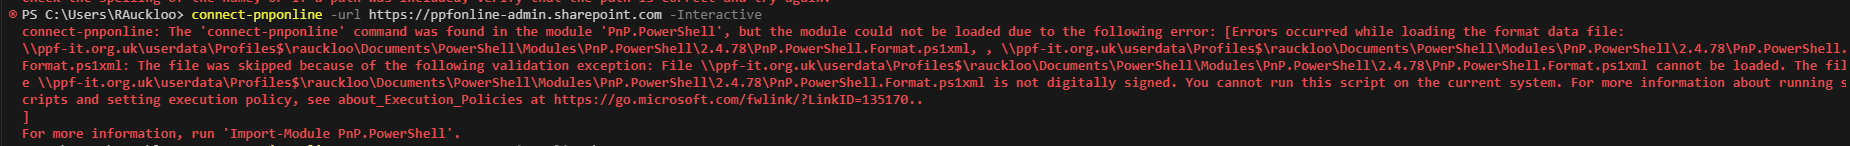
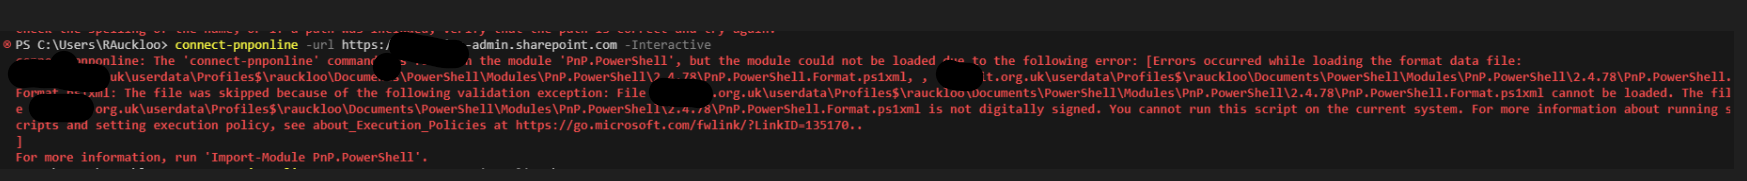
publish post not digitally signed

diff --git a/Hugo/sites/M365Blog/content/posts/PnPPowerShell-not-digitally-signed.md b/Hugo/sites/M365Blog/content/posts/PnPPowerShell-not-digitally-signed.md
@@ -1,0 +1,35 @@
+---
+title: "Resolving the 'PnP PowerShell Not Digitally Signed' Issue"
+date: 2024-06-15T14:49:19+01:00
+tags: ["PnP PowerShell", "Digital Signature", "Execution Policy"]
+featured_image: '/posts/images/PnPPowerShell-not-digitally-signed/Notdigitallysigned.png'
+draft: false
+---
+
+# Resolving the 'PnP PowerShell Not Digitally Signed' Issue
+
+If you've recently upgraded PnP PowerShell to the latest nightly build and are encountering errors when trying to execute any PnP PowerShell cmdlets, this guide is for you.
+
+```PowerShell
+PS C:\Users\RAuckloo> connect-pnponline -url https://contoso-admin.sharepoint.com -Interactive
+connect-pnponline: The 'connect-pnponline' command was found in the module 'PnP. PowerShell', but the module could not be loaded due to the following error: [Errors occurred while loading the format data file:
+\\contoso-it.org.uk\userdata\Profiles$\rauckloo\Documents\PowerShell\Modules\PnP.PowerShel1\2.4.78\PnP.PowerShell.Format.ps1xml, , \\contoso-it.org.uk\userdata\Profiles$\rauckloo\Documents\PowerShell\Modules\PnP.PowerShel1\2.4.78\PnP.PowerShell.
+Format.ps1xml: The file was skipped because of the following validation exception: File \\contoso-it.org.uk\userdata\Profiles$\rauckloo\Documents\PowerShell\Modules\PnP.PowerShell\2.4.78\PnP. PowerShell.Format.ps1xml cannot be loaded. The file \\contoso-it.org.uk\userdata\Profiles$\rauckloo\Documents\PowerShel1\Modules\PnP. PowerShell\2.4.78\PnP. PowerShell. Format.ps1xml is not digitally signed. You cannot run this script on the current system. For more information about runnings
+cripts and setting execution policy, see about_Execution_Policies at https://go.microsoft.com/fwlink/?LinkID=135170 ..
+
+For more information, run 'Import-Module PnP. PowerShell'.
+```
+
+![Not digitally signed](../images/PnPPowerShell-not-digitally-signed/Notdigitallysigned.png)
+
+he error message indicates that the PnP PowerShell module is not digitally signed, which prevents it from being loaded on your system. This is a security measure to prevent the execution of malicious scripts.
+
+The solution is to change the execution policy of your PowerShell session. This can be done using the **set-executionpolicy** cmdlet. The following command sets the execution policy for the current process to Bypass, which allows scripts to run regardless of their signing status:
+
+```powerShell
+set-executionpolicy -scope process -executionpolicy bypass
+```
+
+![After execution policy](../images/PnPPowerShell-not-digitally-signed/AfterExecutionPolicy.png)
+
+Please note that changing the execution policy can have security implications. It's recommended to only use Bypass for trusted scripts and modules. Always ensure that the scripts and modules you're running are from a trusted source. `
